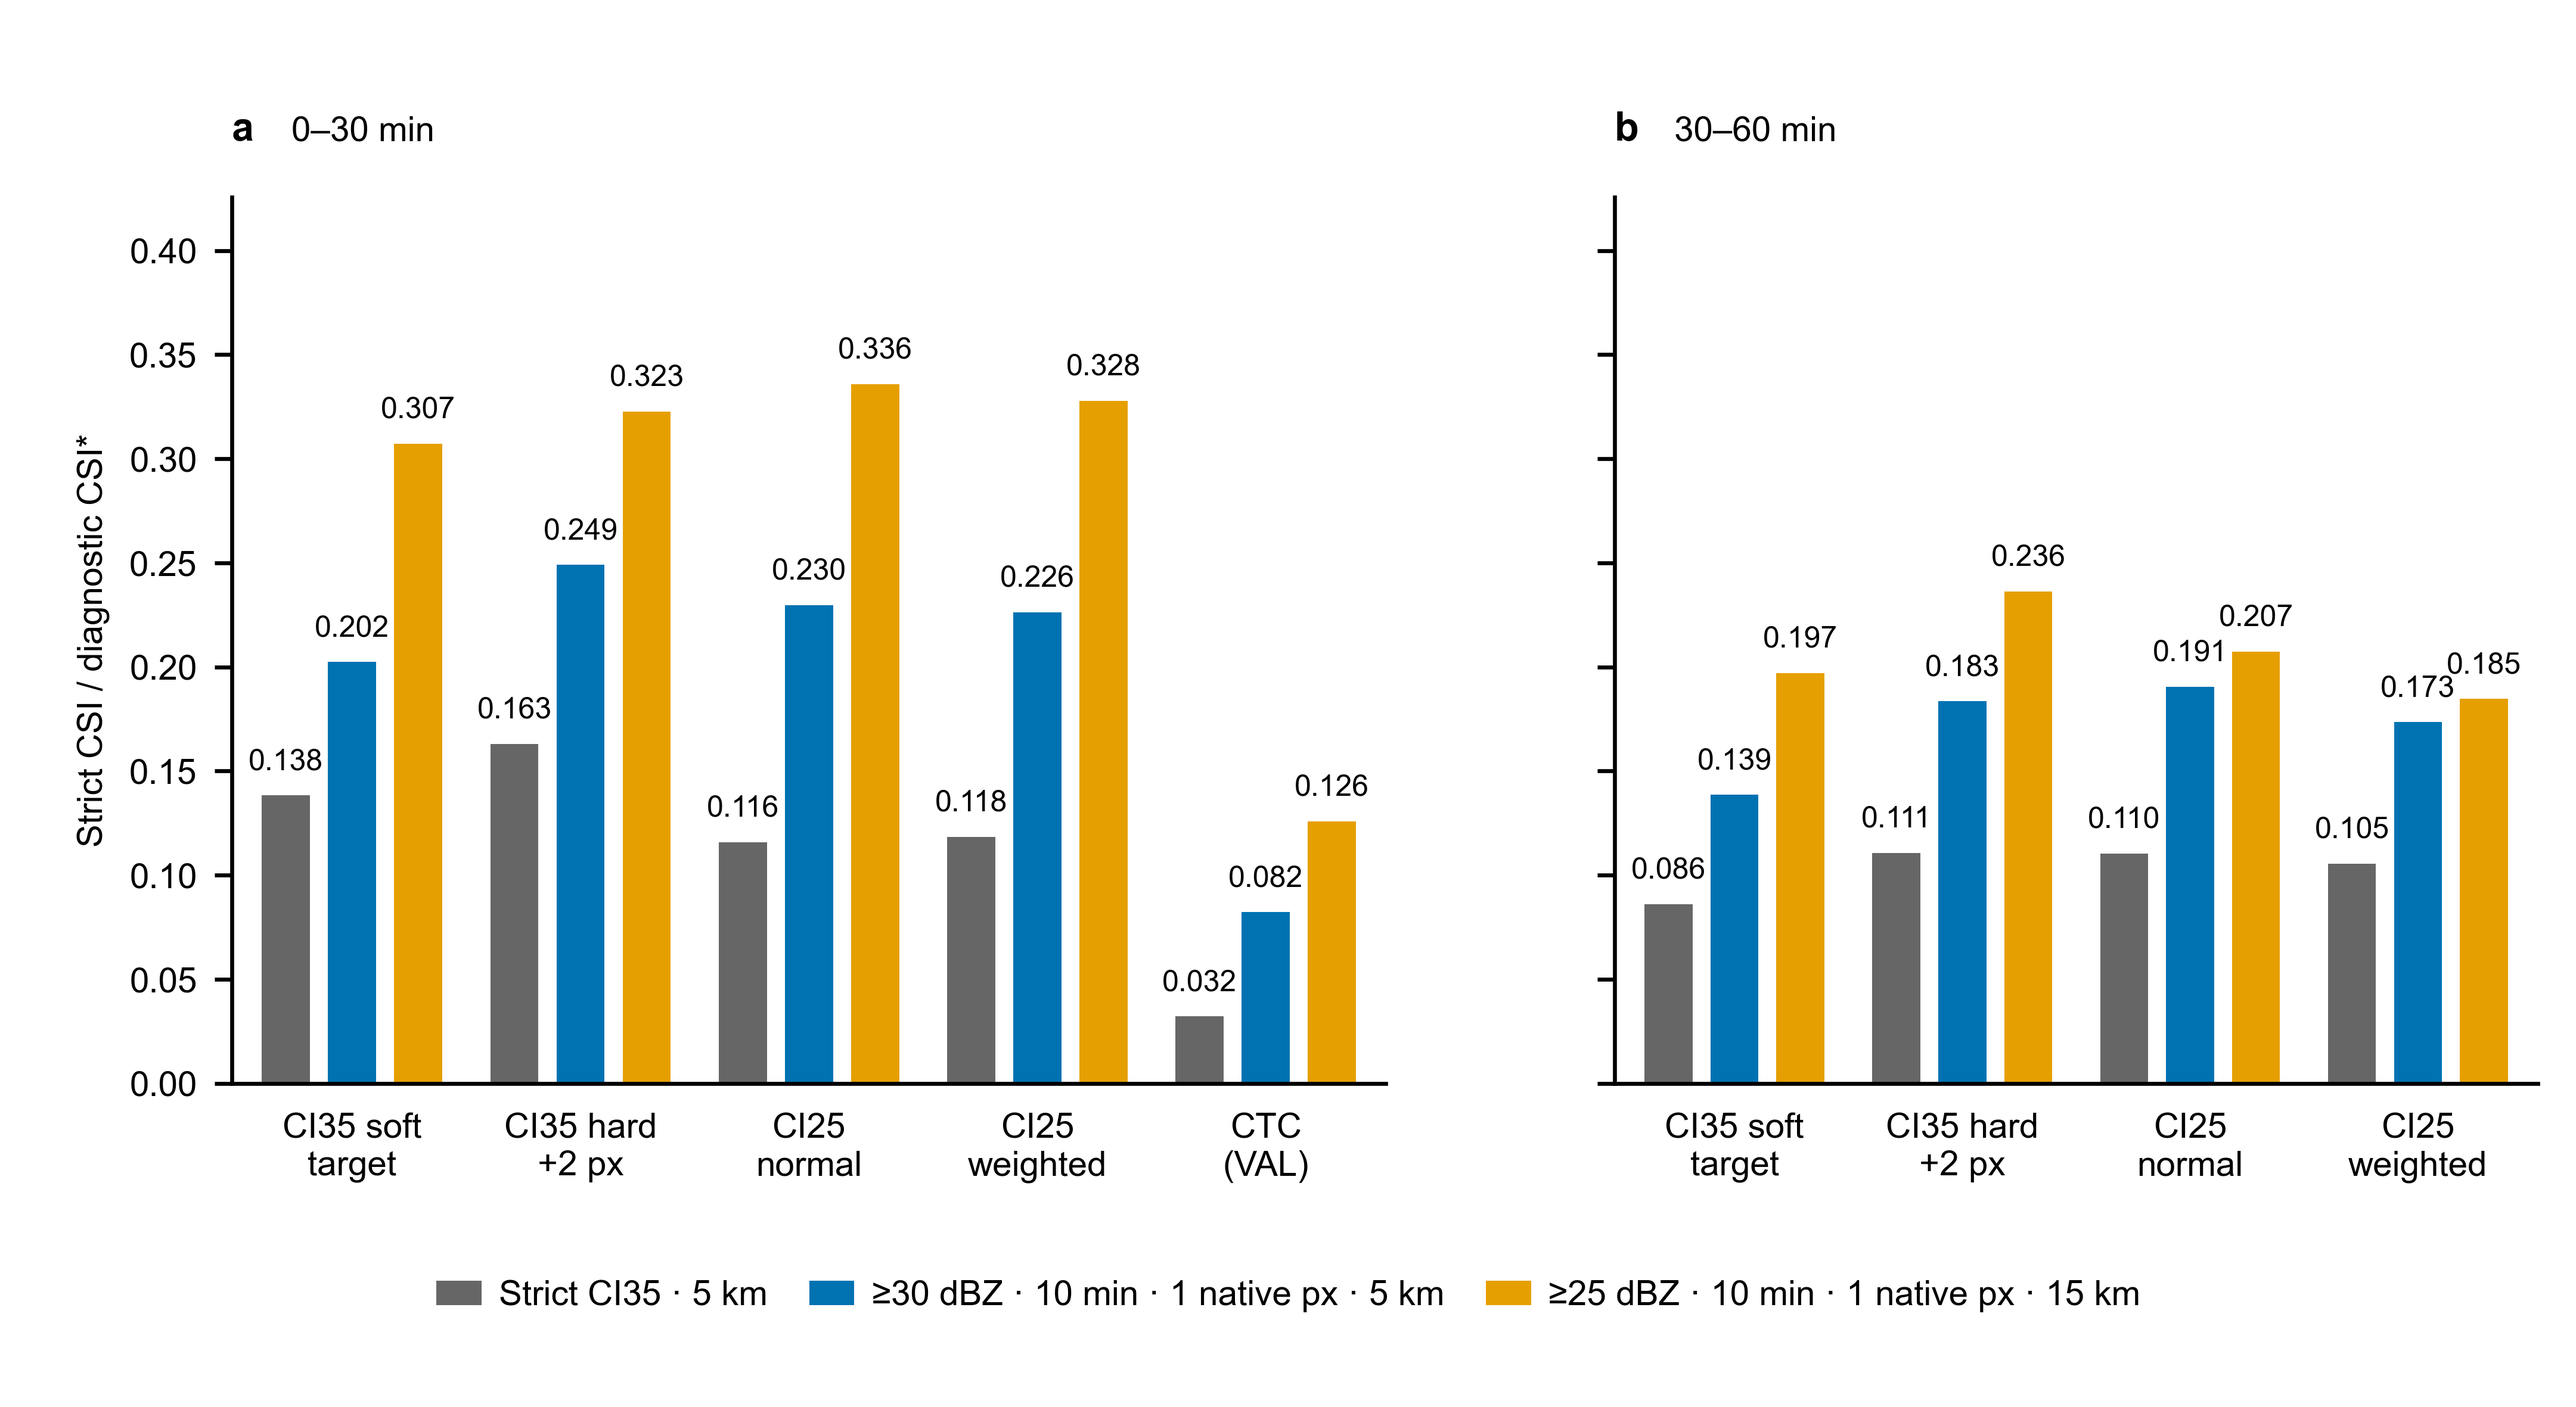
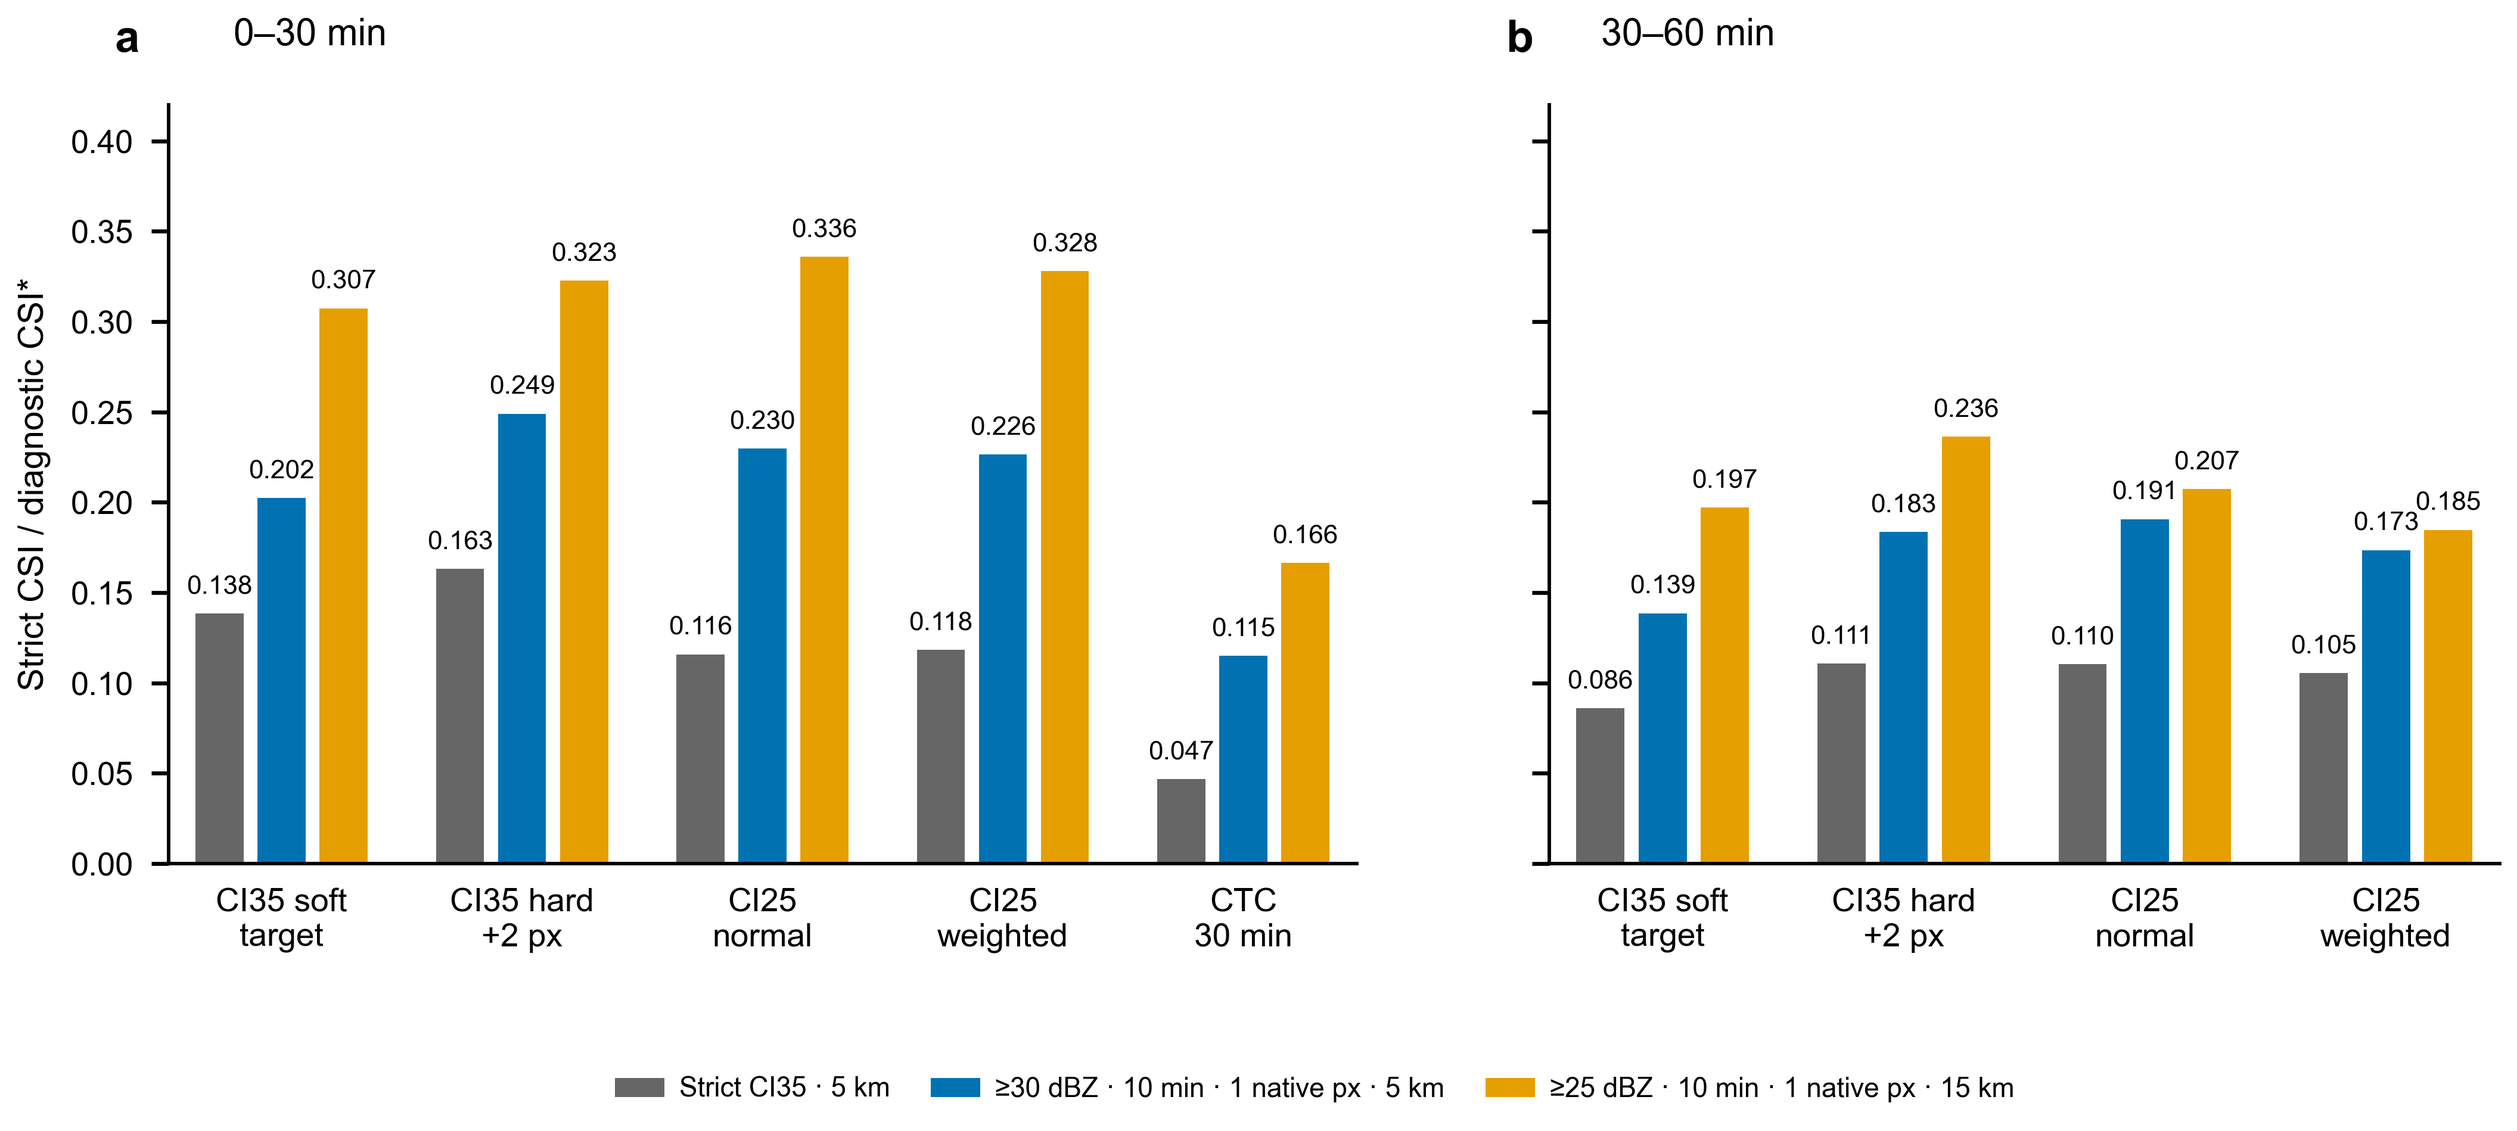
Add files via upload

diff --git a/tests/test_release_metadata.py b/tests/test_release_metadata.py
@@ -17,7 +17,10 @@ class ReleaseMetadataTests(unittest.TestCase):
             self.assertEqual(hashlib.sha256((folder/source['package_file']).read_bytes()).hexdigest(), source['sha256'])
         with (folder/'main_TEST_results.csv').open() as f:
             rows = list(csv.DictReader(f))
-        self.assertEqual(len(rows), 5)
+        self.assertEqual(len(rows), 4)
+        ctc = [row for row in rows if row["model"].startswith("CTC30")]
+        self.assertEqual(len(ctc), 1)
+        self.assertEqual(tuple(int(ctc[0][k]) for k in ["TP", "FP", "FN"]), (3853, 72248, 6263))
         for row in rows:
             tp, fp, fn = (int(row[k]) for k in ['TP', 'FP', 'FN'])
             self.assertEqual(int(row['n_issuances']), 4712)

diff --git a/docs/results/README.md b/docs/results/README.md
@@ -1,14 +1,18 @@
-# Archived strict TEST results
+# Strict TEST results
 
 `main_TEST_results.csv` contains the exact operating-point results shown in the
-README. Values are read from archived source tables, not from image labels or
-new threshold sweeps. The standard formulas CSI=TP/(TP+FP+FN), POD=TP/(TP+FN)
+README. Neural results retain their archived source tables. The CTC30 counts are
+transcribed from the completed cluster log supplied by the author, as documented
+in `CTC30_protocol.json`; no values are extracted from image labels. The standard formulas CSI=TP/(TP+FP+FN), POD=TP/(TP+FN)
 and FAR=FP/(TP+FP) are checked against the archived numbers to 1e-12.
 
 ## Source files
 
-- `comparison_with_resunet.csv`: CTC fixed, CTC VAL-selected, GOES-only and final
-  GOES+MRMS, 0–30 min; the common archived comparison uses 4,712 TEST issuances.
+- `comparison_with_resunet.csv`: final CTC30, GOES-only and GOES+MRMS,
+  0–30 min, on 4,712 TEST issuances. Unavailable CTC30 area/gradient diagnostics
+  are empty; historical values have not been carried over.
+- `CTC30_TEST_results.csv` and `CTC30_protocol.json`: adopted 30-min CTC
+  operating point, exact counts, configuration and source-log provenance.
 - `joint_specialist_scores.csv`: the `I4 joint head1` row supplies the final
   model's 30–60-min result on 4,712 TEST issuances. Specialist rows are preserved
   as source evidence but are not substituted for the joint final model.
@@ -16,7 +20,10 @@ and FAR=FP/(TP+FP) are checked against the archived numbers to 1e-12.
 
 Each README row uses the canonical CI35 catalogue, original one-to-one matching,
 5-km tolerance, minimum two predicted GOES pixels and frozen operating threshold.
-CTC's thresholds have units K/15 min; model thresholds are raw probabilities.
+CTC uses 15 × 15-pixel C13 averaging, a nominal 30-min scan interval, and
+0.5 K/15 min normalized by actual scan separation (nominally 1 K over 30 min).
+Selection on VALIDATION was restricted to nominal cooling of at least 1 K;
+the unconstrained 0.1-K optimum is not adopted. Model thresholds are raw probabilities.
 The 0–30-min reference has 10,116 observed objects; 30–60 min has 10,119.
 
 The GOES-only controlled configuration records `training_target_kind=hard`,

diff --git a/README.md b/README.md
@@ -37,12 +37,12 @@ isotonic-calibration analysis is separate; no calibration map is silently applie
 Strict CI35, one-to-one matching within **5 km**, minimum **two forecast-grid
 pixels** per forecast object, and **4,712 common TEST issuances**. Operating
 thresholds are frozen before TEST; probability thresholds were selected on
-VALIDATION. CTC fixed uses its literature reference threshold.
+VALIDATION. The CTC setting was selected under a minimum nominal cooling
+of 1 K; TEST was not used for selection.
 
 | Model | Window (min) | Threshold | CSI | POD | FAR |
 |---|---|---:|---:|---:|---:|
-| CTC fixed | 0–30 | 4 K/15 min | 0.020 | 0.201 | 0.979 |
-| CTC VAL-selected | 0–30 | 0.5 K/15 min | 0.032 | 0.421 | 0.966 |
+| CTC 30 min · VAL-selected | 0–30 | nominal 1 K / 30 min | 0.047 | 0.381 | 0.949 |
 | GOES-only ResUNet | 0–30 | 0.040 | 0.093 | 0.215 | 0.859 |
 | GOES+MRMS final ResUNet | 0–30 | 0.075 | 0.163 | 0.400 | 0.784 |
 | GOES+MRMS final ResUNet | 30–60 | 0.015 | 0.111 | 0.308 | 0.853 |
@@ -53,6 +53,13 @@ Exact scores, TP/FP/FN and archived sources are in
 not scores computed on the demo crop. A trained checkpoint alone is insufficient
 to reproduce the complete TEST evaluation; the frozen evaluation cohort and
 canonical observations are also required.
+
+The CTC baseline uses GOES C13 cooling over a nominal **30-min interval**,
+with **15 × 15-pixel averaging** and a **0.5 K/15 min rate threshold**,
+equivalent to **1 K over exactly 30 min**. The implementation normalizes by
+the actual scan-time separation. Selection used VALIDATION with a minimum
+nominal cooling of 1 K. Exact strict TEST CSI is **0.046780**
+(TP = 3,853; FP = 72,248; FN = 6,263).
 
 The CTC comparison is a satellite cloud-top-cooling baseline. It is **not** a
 radar-persistence or radar-extrapolation baseline. The notebook's persistence
